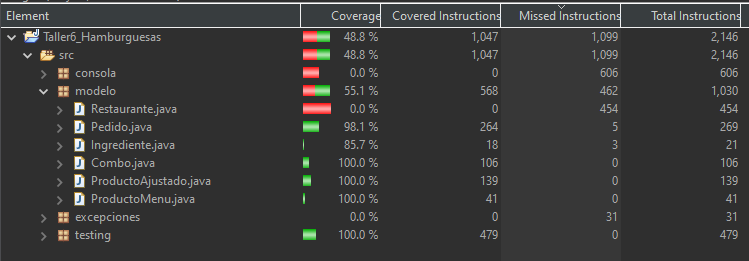
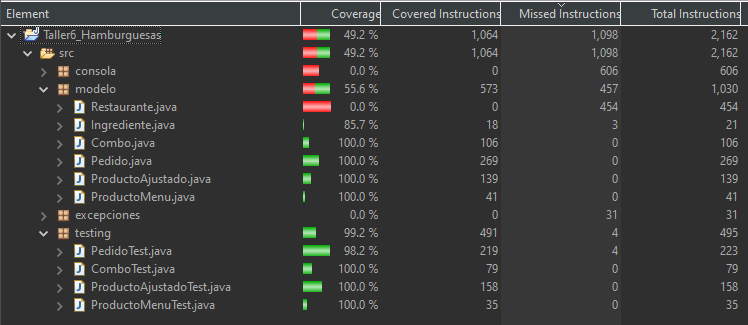
Test para la excepción, Entrega final final

Changed region(s): [[0.0, 0.0, 1.0, 0.9808]]

diff --git a/Taller6_Hamburguesas/src/testing/PedidoTest.java b/Taller6_Hamburguesas/src/testing/PedidoTest.java
@@ -15,9 +15,11 @@ public class PedidoTest {
 	
 	private static Pedido pedido;
 	private static Producto producto;
+	private static Producto productoExcepcion;
 	
 	@BeforeAll
 	public static void setUp() throws Exception {
+		productoExcepcion = new ProductoMenu("ProductoExcepcion",200000.0,0);
 		producto = new ProductoMenu("ProductoPrueba",10000.0,0);
 		pedido = new Pedido("Rubén","Dirección",5);
 		pedido.agregarProducto(producto);
@@ -36,6 +38,13 @@ public class PedidoTest {
 				()->assertTrue(pedido.getProductos().contains(producto))
 				);
 	}
+	
+	@Test
+    public void testException() {
+        assertThrows(Exception.class, () -> {
+            pedido.agregarProducto(productoExcepcion);
+        });
+    }
 	
 	@Test
 	public void testGenerarTextoFactura() {
